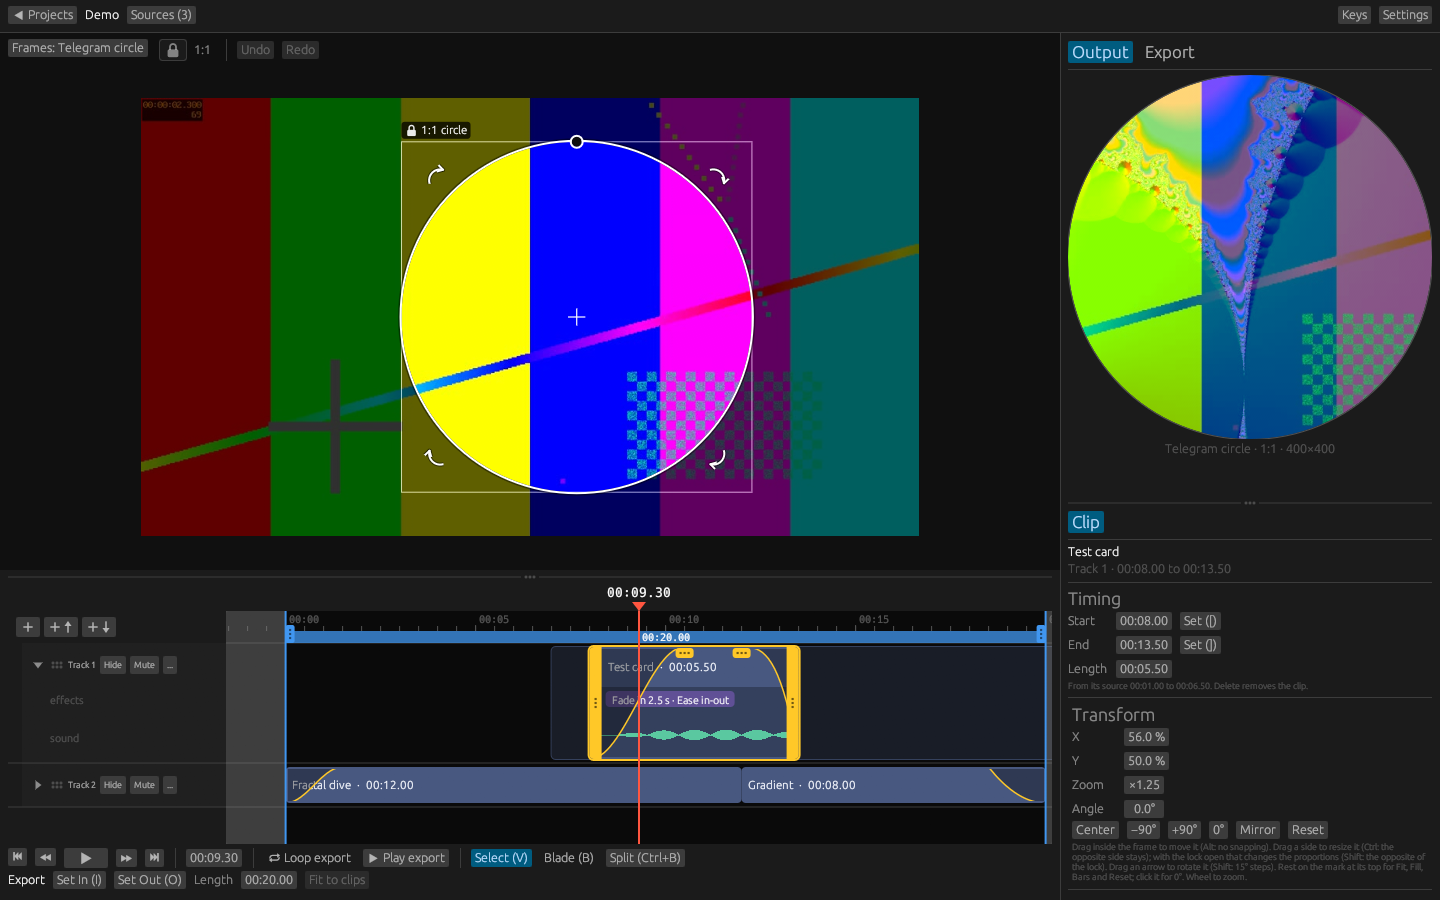
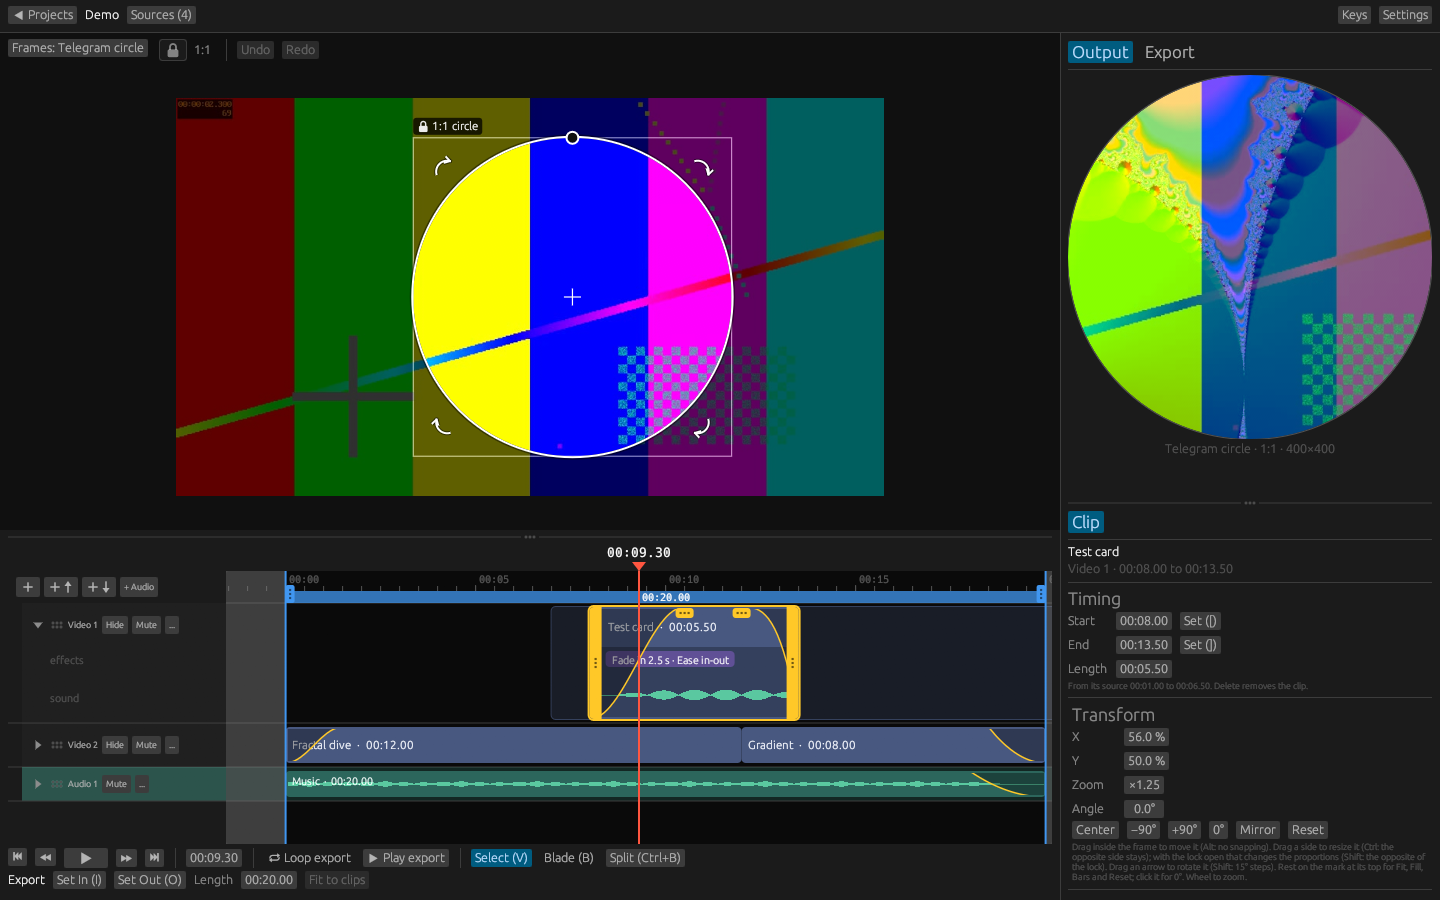
tutorial updated

Changed region(s): [[0.0, 0.0933, 0.75, 0.9022], [0.0, 0.8089, 0.1562, 0.9022], [0.7812, 0.6222, 0.8438, 0.6533]]

diff --git a/README.md b/README.md
@@ -41,6 +41,8 @@ yt-dlp come along in the same folder.
   sound or the picture, delete it, and chain what is left to other clips.
 - Music and other sound files (MP3, WAV, M4A, FLAC, OGG, Opus) as sources, on audio tracks.
 
+Step by step, with pictures: [Working with sound](#working-with-sound).
+
 **Framing for the platform**
 
 ![The Telegram circle frame: the circle on the source, and the circle that will be sent](docs/screenshots/circle.png)
@@ -77,6 +79,9 @@ yt-dlp come along in the same folder.
    resize the frame on the picture.
 3. More videos or music: **Sources**, then **Add video or sound…** or **Download from a link…**. Drag a
    source onto the timeline; onto an audio track it goes as its sound only.
+
+   ![Sources: the videos and the music of the project, and the buttons to add more](docs/screenshots/sources.png)
+
 4. Pick a clip to change it in the **Clip** panel on the right: timing, framing, volume, effects.
    Right click a clip for its menu: detach its sound, chain it to another clip, fades, color, cut,
    duplicate, delete.
@@ -84,6 +89,32 @@ yt-dlp come along in the same folder.
 6. **Export** tab: choose a preset, then **Export**.
 
 Press **F1** in the editor for the list of keys.
+
+## Working with sound
+
+1. **Detach the sound of a clip.** Right click a video clip and choose **Detach sound**.
+
+   ![The menu of a video clip, with Detach sound](docs/screenshots/sound-detach.png)
+
+2. **The sound is now a clip of its own,** on an audio track right under its picture: move it, cut
+   it, trim it and fade it on its own. The picture says *sound detached*. The two are **chained**:
+   both carry a mark of two chain links, and when one is moved in time, the other goes along.
+   Select one, and the clips chained to it are outlined.
+
+   ![The picture on Video 2 and its sound on Audio 1, chained; music on Audio 2](docs/screenshots/sound-detached.png)
+
+3. **Chain any clips.** Right click a clip, choose **Chain to…**, then click the clip to chain it to;
+   Esc gives up. Here the music is about to be chained to the test card, to follow the card when it
+   is moved.
+
+   ![Chain to: the timeline waits for a click on the clip to chain the music to](docs/screenshots/sound-chain.png)
+
+4. **Unchain**, in the same menu, lets a clip move on its own again; the others stay chained. Both
+   parts of a cut stay chained: cut a piece out of the sound, delete it, and chain what is left to
+   other clips.
+5. **Music and other sound files** come in through **Sources**, **Add video or sound…**: MP3, WAV,
+   M4A, FLAC, OGG or Opus. Drag one onto an audio track; dropped anywhere else, it gets a new audio
+   track. A video dragged onto an audio track brings only its sound.
 
 ## Keys
 
@@ -209,5 +240,5 @@ Built with [egui and eframe](https://github.com/emilk/egui), [cpal](https://gith
 and written by [FFmpeg](https://ffmpeg.org); videos by link come through
 [yt-dlp](https://github.com/yt-dlp/yt-dlp).
 
-The pictures in the screenshots are drawn by FFmpeg itself: a test card, a Mandelbrot fractal and
-gradients.
+The pictures and the music in the screenshots are made by FFmpeg itself: a test card, a Mandelbrot
+fractal, gradients and two tones.
